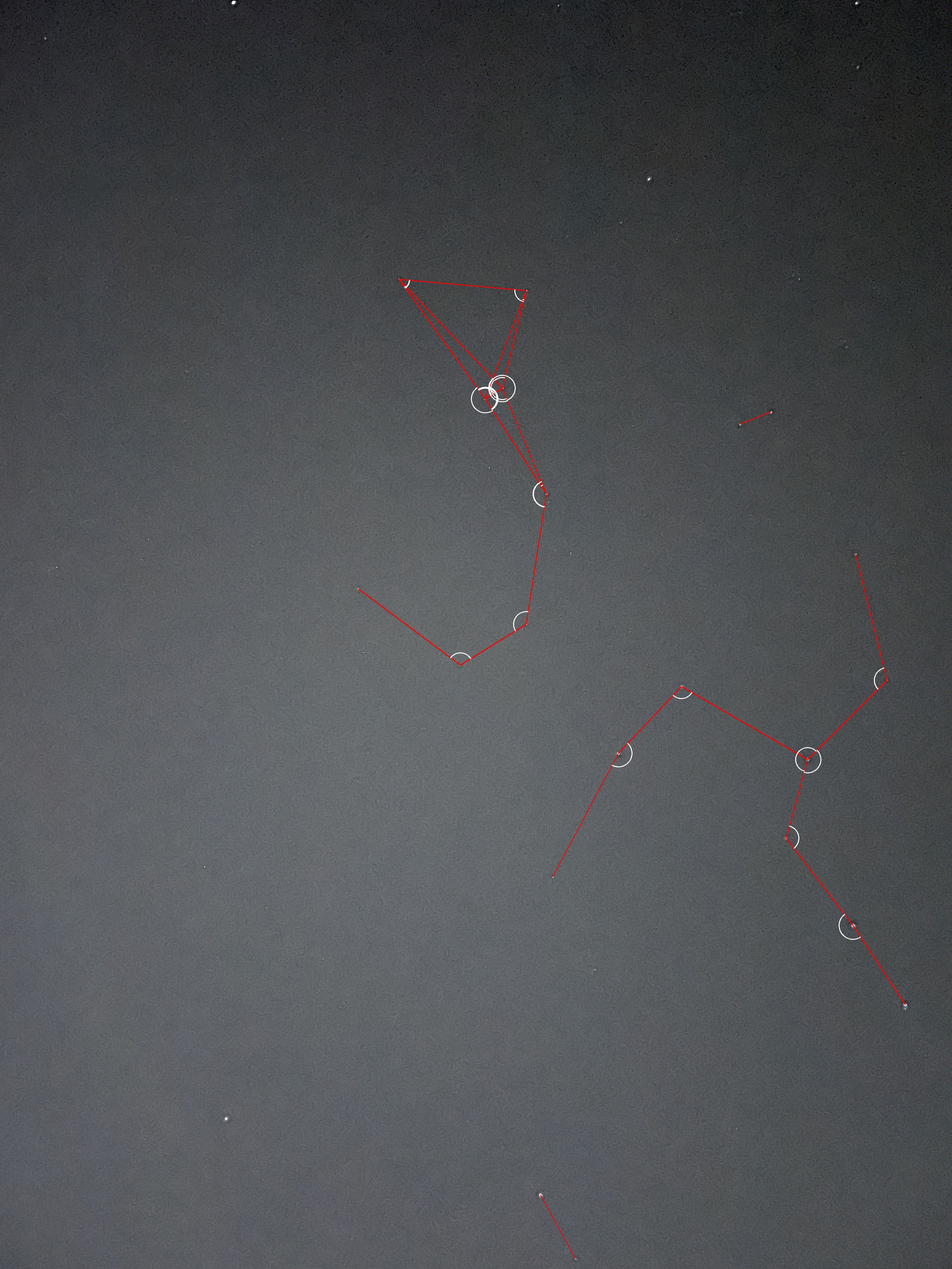
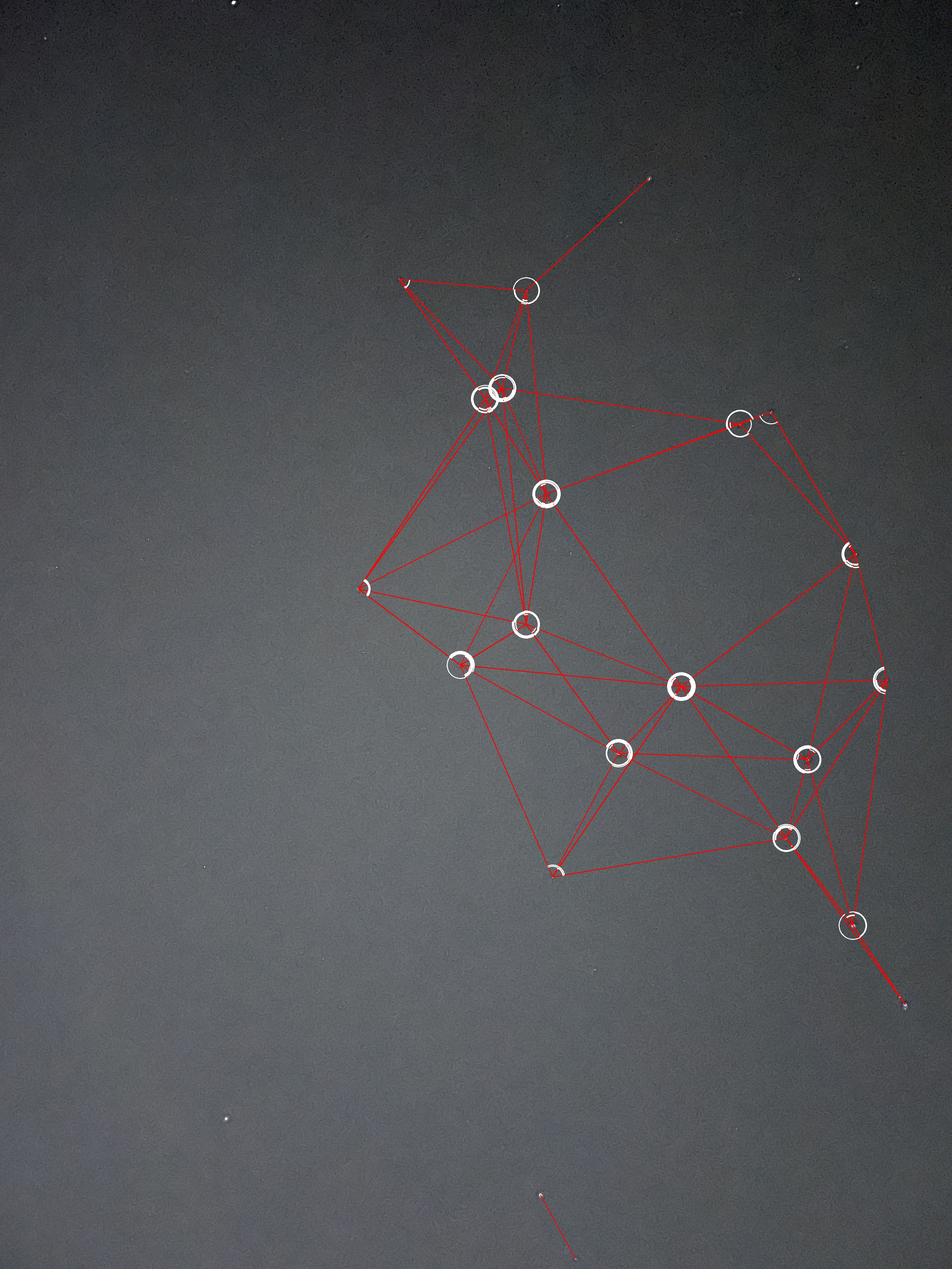
updated readme & images

diff --git a/starmatcher.py b/starmatcher.py
@@ -311,12 +311,12 @@ class StarMatcher:
             print(f"comparing : {graph1.index(line1)} and {graph2.index(line2)} : ")
 
             for i, child1 in enumerate(line1.children):
-                child1line1, angle1 = child1
+                childline1, angle1 = child1
                 for j, child2 in enumerate(line2.children):
-                    child1line2, angle2 = child2
+                    childline2, angle2 = child2
                     if abs(angle1 - angle2) < angleoffset and used_indexes1.count(i) == 0 and used_indexes2.count(j) == 0:
                         print("\tdiff = ", angle1 - angle2)
-                        temp_matches.append((child1line1.children, child1line2.children, i, j))
+                        temp_matches.append((childline1.children, childline2.children, i, j))
                         used_indexes1.append(i)
                         used_indexes2.append(j)
 
@@ -368,8 +368,8 @@ class StarMatcher:
             temppos1 = line2.star1.iposition
             temppos2 = line2.star2.iposition
 
-            cv2.line(img, line1.star1.iposition, (temppos1[0] + int(width / 2), temppos1[1]), (0, 0, 255))
-            cv2.line(img, line1.star2.iposition, (temppos2[0] + int(width / 2), temppos2[1]), (0, 0, 255))
+            cv2.line(img, line1.star1.iposition, (temppos1[0] + int(width / 2), temppos1[1]), (255, 255, 255))
+            cv2.line(img, line1.star2.iposition, (temppos2[0] + int(width / 2), temppos2[1]), (255, 255, 255))
             cv2.imwrite("temp.jpg", img)
 
 

diff --git a/stars.py b/stars.py
@@ -9,4 +9,8 @@ stars2 = matcher.detect_stars("fr2_180.jpg")
 graph1 = matcher.build_graph(stars1)
 graph2 = matcher.build_graph(stars2)
 
+utils.draw_graph("fr1.jpg", matcher, "graph1.jpg")
+utils.draw_graph("fr2_180.jpg", matcher, "graph2.jpg")
+utils.connect_images("graph1.jpg", "graph2.jpg")
+
 StarMatcher.match_stars(graph1, graph2)

diff --git a/readme.md b/readme.md
@@ -20,13 +20,15 @@ Circling the result of the finiding algorithm we get:
 
 We want to find pairs of points (x, y, radius, brightness) that point to the same star.
 
-Bright stars have a higher chance to show on both photos, we take them and build a graph between all of them. Here is an example for 2 images of same stars:
+Bright stars have a higher chance to show on both photos, we take them and build a graph between all of them. Here is an exmple for 2 images of same stars:a
 
-![foundstars](ReadmeImages/graphs_example.jpg)
+![built-graphs](ReadmeImages/connected.jpg)
 
 After constructing the graph we can compare the length/angle between each node, the point of this is to find 2 stars we can know for sure the correspond to each other.
 After that we can calculate how much we need to transform each stars poision/rotation/scale from image1 to match image2.
 
-We select the brightest stars from each picture and iterate through the graphs.
+We select the brightest stars from each picture and iterate through the graphs until we find a matching line.
+
+![located-line](ReadmeImages/located-lines.jpg)
 
 # Part 4 - TODO 
